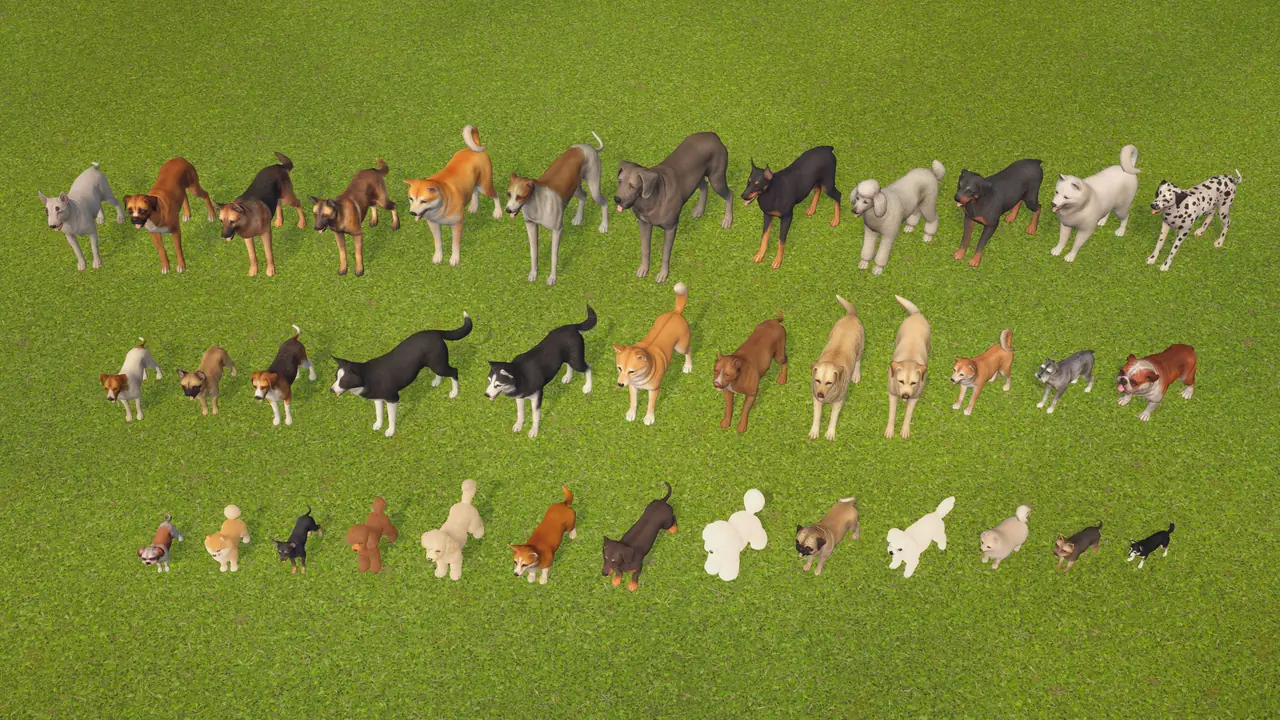
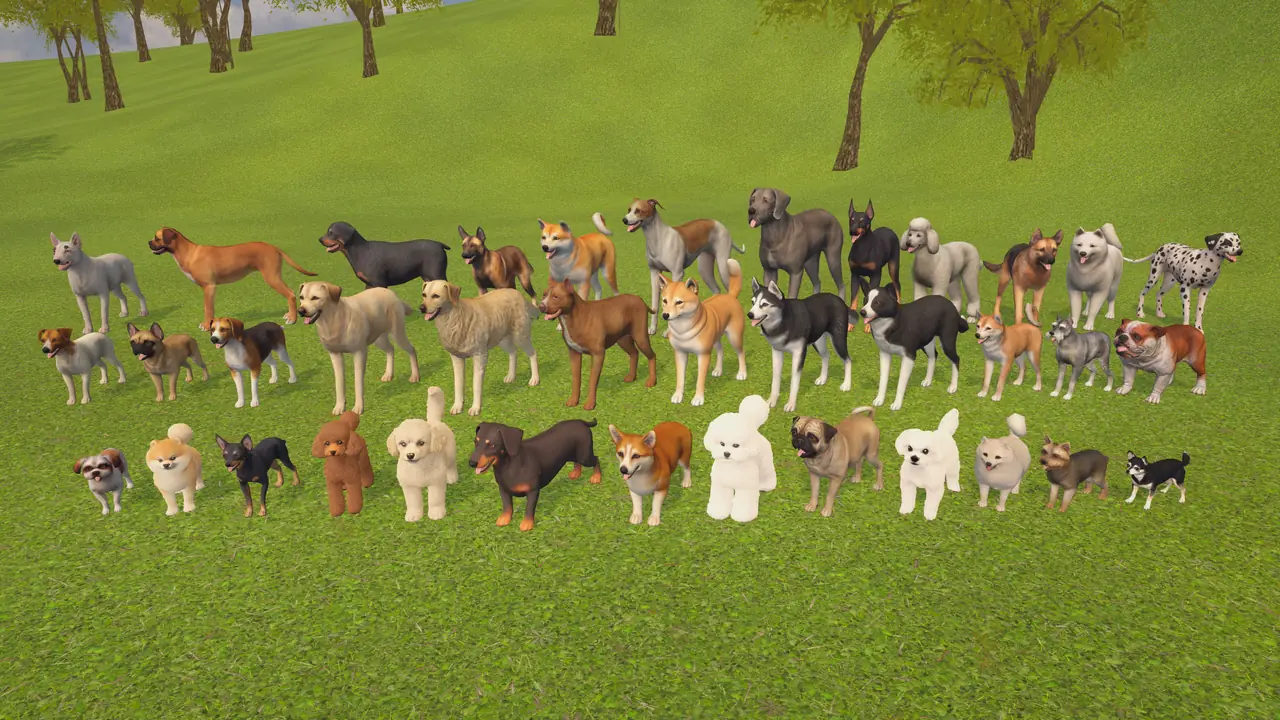
첫 화면 단체 사진 17° 낮은 시점판(탭 1 01:05): PC 16:9 · 휴대폰 16:10 · 공유 그림 · 전후 캡처

diff --git a/초안메모/site_tools/hero_17deg_1106.py b/초안메모/site_tools/hero_17deg_1106.py
@@ -1,0 +1,13 @@
+# 첫 화면 단체 사진 17° 낮은 시점판 (탭 1, 11/6 01:05 — 사용자 '드론 시점 → 조금 정면'): PC 16:9 · 휴대폰 16:10 · 공유 그림 1200×630
+# 실행: ~/everpaw/Tools/py -I 초안메모/site_tools/hero_17deg_1106.py   (잘라 붙이기 없음, 원본 그대로 자르기만)
+import os
+from PIL import Image
+os.chdir(os.path.expanduser('~/shallwedog-site'))
+D = os.path.expanduser('~/everpaw/Captures/사이트_단체사진_1106/낮은시점_17도/')
+pc = Image.open(D + '단체_17도_PC_16x9_5760x3240.jpg').convert('RGB')
+pc.resize((1280, 720), Image.LANCZOS).save('assets/img/hero-lineup-wide.webp', quality=72, method=6)
+pc.crop((0, 150, 5760, 3174)).resize((1200, 630), Image.LANCZOS).save('assets/img/og.jpg', quality=86, optimize=True, progressive=True)
+m = Image.open(D + '단체_17도_휴대폰_4x3_4800x3600.jpg').convert('RGB')
+m.crop((0, 300, 4800, 3300)).resize((1040, 650), Image.LANCZOS).save('assets/img/hero-lineup-m.webp', quality=72, method=6)
+for f in ('hero-lineup-wide.webp', 'hero-lineup-m.webp', 'og.jpg'):
+    print(f, os.path.getsize('assets/img/' + f) // 1024, 'KB')
